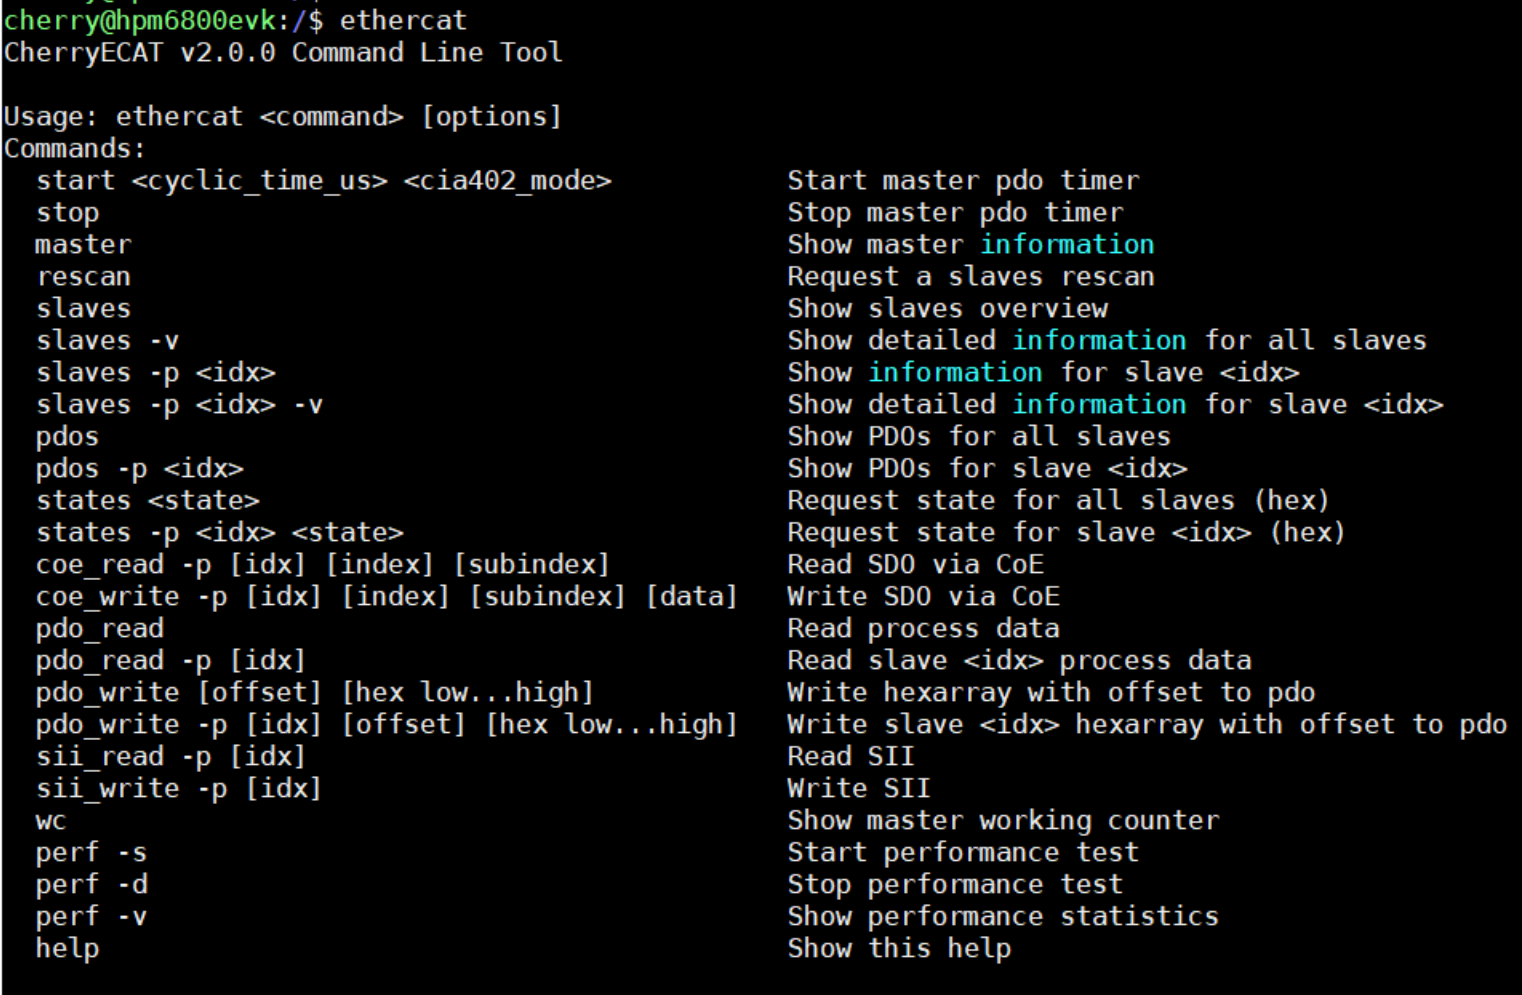
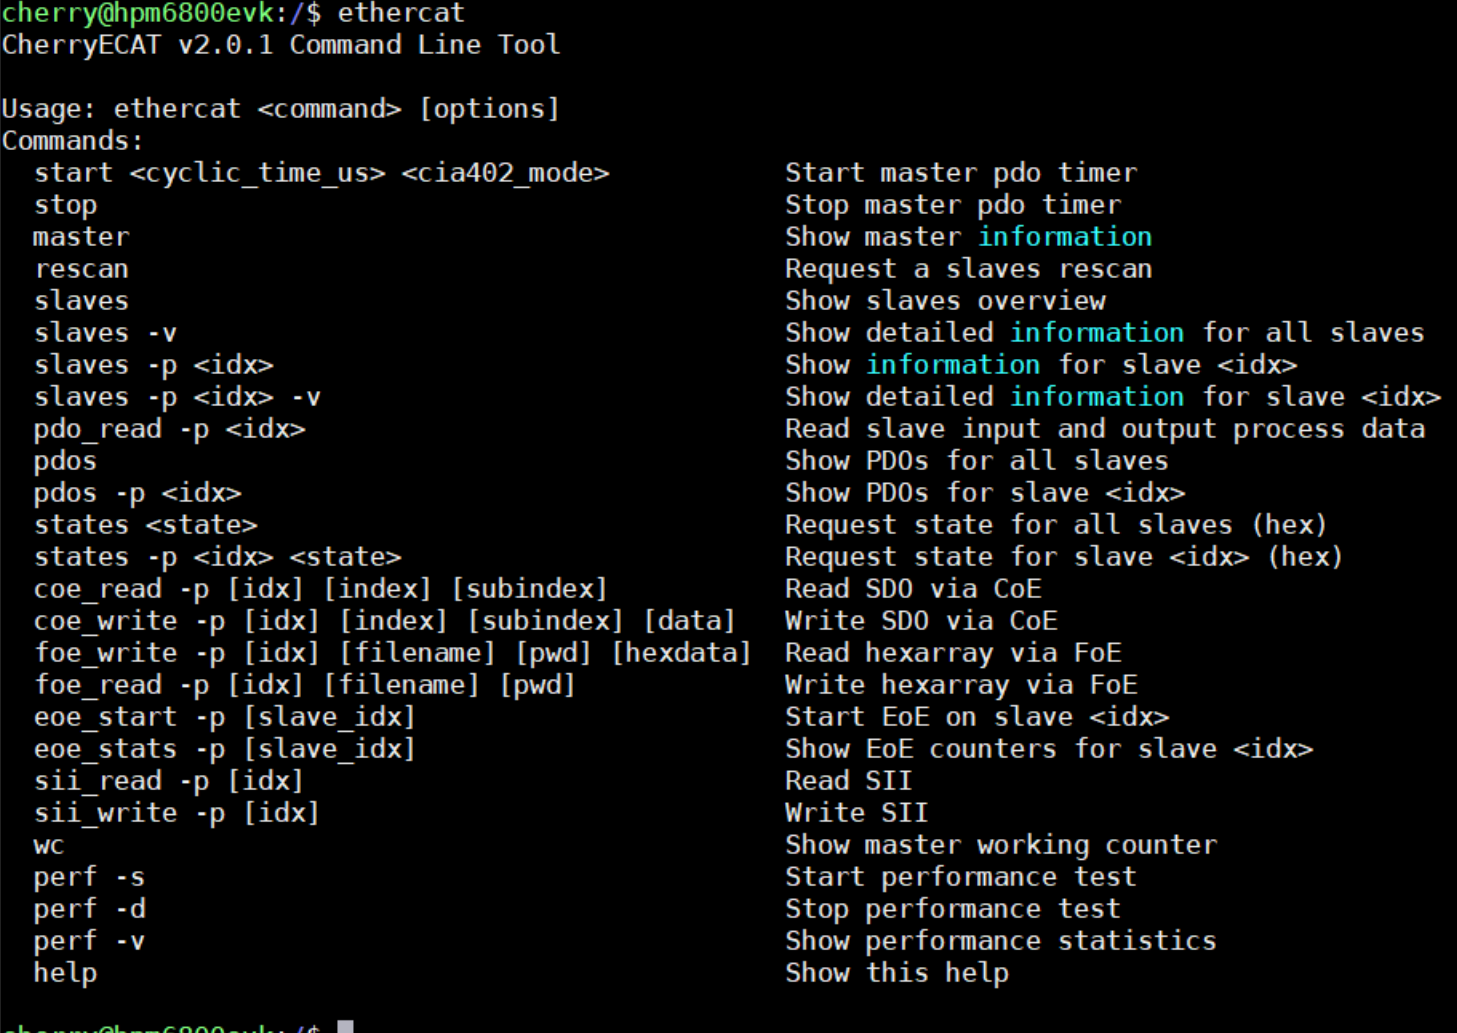
docs: update md & rst

Changed region(s): [[0.0, 0.0935, 0.9883, 0.9658], [0.0, 0.0, 0.4015, 0.0623], [0.0, 0.9658, 0.2471, 1.0]]

diff --git a/README.md b/README.md
@@ -12,9 +12,10 @@ CherryECAT is a tiny and beautiful, high real-time and low-jitter EtherCAT maste
 ## Feature
 
 - **RTOS only, do not support Linux and windows** (designed to contrast with the latter)
-- ~ 4K ram, ~40K flash(24K + 16K shell cmd, including log)
+- ~ 4K ram, ~55K flash(40K all features + 15K shell cmd, including log)
 - Asynchronous queue-based transfer (one transfer can carry multiple datagrams)
 - Zero-copy technology: directly use enet tx/rx buffer to fill and parse ethercat data
+- Unified mailbox management, with automatic internal distribution according to the protocol(commercial version only)
 - PHY driver internal, scan and configure PHY automatically
 - Support hot-plugging
 	- Automatic scanning bus
@@ -49,7 +50,7 @@ The pic shows dc jitter ~ 3us (hpm6800evk with flash_xip):
 	- Must support long long print
 
 - **Slave**
-	- Must support DC and system time
+	- Must support DC and system time with 64bit
 	- Must support sdo complete access
 	- Must support LRW
 	- SII must have sync manager information
@@ -67,6 +68,7 @@ The pic shows dc jitter ~ 3us (hpm6800evk with flash_xip):
 ![ethercat](docs/assets/ethercat8.png)
 ![ethercat](docs/assets/ethercat9.png)
 ![ethercat](docs/assets/ethercat10.png)
+![ethercat](docs/assets/ethercat11.png)
 
 ## Tool
 
@@ -110,8 +112,9 @@ Generating C code...
 
 ## Support Boards
 
-- HPM6750EVK2/HPM6800EVK/**HPM5E00EVK**(hybrid internal)
+- HPM6750EVK2/HPM6800EVK/HPM6E00EVK/HPM5E00EVK
 - RT-Thread RZN2L-EtherKit/RA8P1 Titan/RuiQing Pai
+- Renesas CPK RA8P1/RAPT2
 - STM32H7
 
 
@@ -121,4 +124,10 @@ QQ group: 563650597
 
 ## License
 
-FOE, EOE and backup redundancy features are available in **Royalty-Free**; other are free to use
+The following features are included in the commercial version and are licensed on a royalty-free basis:
+
+- Unified mailbox management, with automatic internal distribution according to the protocol
+- Based on the COE, FOE, EOE + lwIP code provided in the first item
+- Backup and redundancy functionality
+
+All other features besides the above may be used commercially free of charge.

diff --git a/docs/source/api.rst b/docs/source/api.rst
@@ -267,16 +267,15 @@ ec_foe_read
 ec_eoe_start
 --------------------------------
 
-配置主从站 IPv4 并启动 EoE 通信。当前仅支持同一时刻，只能允许一个 EOE 从站通信，并且推荐在 preop 下进行（如果对性能没有要求，则忽视）。
+配置主从站 IPv4 并启动 EoE 通信。设置 IP 和创建网络接口由 EoE 线程完成。
 
 .. code-block:: c
    :linenos:
 
-    int ec_eoe_start(ec_eoe_t *eoe,
-                    ec_master_t *master,
-                    uint16_t slave_index,
-                    struct ec_eoe_ip_param *master_ip_param,
-                    struct ec_eoe_ip_param *slave_ip_param);
+    int ec_eoe_start(ec_master_t *master,
+                     uint16_t slave_index,
+                     const struct ec_eoe_ip_param *master_ip_param,
+                     const struct ec_eoe_ip_param *slave_ip_param);
 
 .. list-table::
     :widths: 10 10
@@ -298,6 +297,7 @@ ec_eoe_start
 .. note::
 
     主站和从站需要在同一个网关下才能通信成功，并且 mac 地址需要不同。
+    ``master_ip_param``、``slave_ip_param`` 及其中的字符串只需在本次调用返回前保持有效。
 
 ec_datagram_init
 --------------------------------
